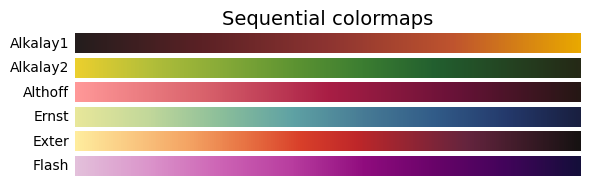
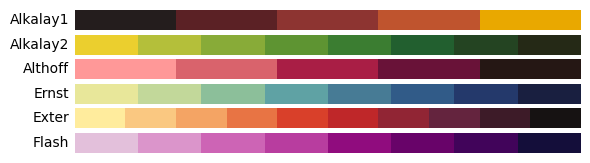
Update README with more examples

diff --git a/src/momacolors/colors.py b/src/momacolors/colors.py
@@ -1,3 +1,10 @@
+__all__ = [
+    "_hex_colors",
+    "_sequential",
+    "_diverging",
+    "_colorblind_friendly"
+]
+
 _hex_colors = {
     "Abbott"      : ["#950404", "#e04b28", "#c38961", "#9f5630", "#388f30", "#0f542f", "#007d82", "#004042"],
     "Alkalay1"    : ["#241d1d", "#5b2125", "#8d3431", "#bf542e", "#e9a800"],
@@ -37,43 +44,43 @@ _hex_colors = {
 }
 
 _sequential = {
-        "Alkalay1",
-        "Alkalay2",
-        "Althoff",
-        "Ernst",
-        "Exter",
-        "Flash",
+    "Alkalay1",
+    "Alkalay2",
+    "Althoff",
+    "Ernst",
+    "Exter",
+    "Flash",
 }
 
 _diverging = {
-        "Avedon", 
-        "Kippenberger",
-        "Picabia"
+    "Avedon", 
+    "Kippenberger",
+    "Picabia"
 }
 
 _colorblind_friendly = {
-        "Alkalay1",
-        "Alkalay2",
-        "Althoff",
-        "Andri",
-        "Connors",
-        "Doughton",
-        "Ernst",
-        "Exter",
-        "Flash",
-        "Fritsch",
-        "Kippenberger",
-        "Koons",
-        "Levine2",
-        "Ohchi",
-        "OKeeffe",
-        "Palermo",
-        "Picabia",
-        "Picasso",
-        "Rattner",
-        "Sidhu",
-        "Smith",
-        "ustwo",
-        "VanGogh",
-        "vonHeyl"
+    "Alkalay1",
+    "Alkalay2",
+    "Althoff",
+    "Andri",
+    "Connors",
+    "Doughton",
+    "Ernst",
+    "Exter",
+    "Flash",
+    "Fritsch",
+    "Kippenberger",
+    "Koons",
+    "Levine2",
+    "Ohchi",
+    "OKeeffe",
+    "Palermo",
+    "Picabia",
+    "Picasso",
+    "Rattner",
+    "Sidhu",
+    "Smith",
+    "ustwo",
+    "VanGogh",
+    "vonHeyl"
 }

diff --git a/src/momacolors/colormaps.py b/src/momacolors/colormaps.py
@@ -61,5 +61,7 @@ def show_all(n: Optional[int]=None, interpolate: bool=False, reversed: bool=Fals
     names = _compare_names(names, _sequential, sequential)
     names = _compare_names(names, _diverging, diverging)
     names = _compare_names(names, _colorblind_friendly, colorblind_friendly)
-    cmaps = [get_colormap(name, n=n, interpolate=interpolate, reversed=reversed) for name in names]
+    if len(names) == 0:
+        raise ValueError("No colormaps match the specified criteria.")
+    cmaps = [get_colormap(name, n=n, interpolate=interpolate, reversed=reversed) for name in sorted(names)]
     return plot_cmaps(cmaps)

diff --git a/README.md b/README.md
@@ -2,6 +2,14 @@
 
 Python implementation of [BlakeRMills/MoMAColors](https://github.com/BlakeRMills/MoMAColors).
 
+## Table of contents
+
+- [Installation](#installation)
+- [Usage](#usage)
+    - [Get colormaps](#get-colormaps)
+    - [Show colormaps](#show-colormaps)
+    - [Example](#example)
+
 ## Installation
 
 To install the latest development build,
@@ -12,27 +20,113 @@ pip install git+https://github.com/alexlyttle/pyMoMAColors.git
 
 ## Usage
 
-### Colormaps
+### Get colormaps
+
+To get a colormap, e.g. Abbott
 
 ```python
 import momacolors as moma
 
-moma.sequential.show_cmaps()
+moma.get_colormap("Abbott")
+```
+
+![Abbott colormap](images/abbott.png)
+
+This returns a `matplotlib.colors.Colormap` object which you can use in plotting (see [Example](#example)).
+
+You can customize the colormap using optional arguments. For example, return 20 colors,
+
+```python
+moma.get_colormap("Abbott", n=20)
+```
+
+![20 colors from Abbott colormap](images/abbott_20.png)
+
+See how the colors repeat. You can get 20 colors by interpolation instead,
+
+```python
+moma.get_colormap("Abbott", n=20, interpolate=True)
+```
+
+![20 colors from Abbott interpolated colormap](images/abbott_interpolate_20.png)
+
+You can reverse the colormap in the following ways
+
+```python
+moma.get_colormap("Abbott", reversed=True)
+moma.get_colormap("Abbott_r")
+moma.get_colormap("Abbott").reversed()
+```
+
+![20 colors from Abbott interpolated colormap](images/abbott_reversed.png)
+
+These all return the same object,
+
+```python
+>>> moma.get_colormap("Abbott", reversed=True) == \
+    moma.get_colormap("Abbott_r") == \
+    moma.get_colormap("Abbott").reversed()
+
+True
+```
+
+If you interpolate without specifying `n`, then `n = 256`. This is useful for *sequential* or *diverging* colormaps. For example,
+
+```python
+moma.get_colormap("Ernst", interpolate=True)
+```
+
+![Ernst interpolated colormap](images/ernst_interpolate.png)
+
+### Show colormaps
+
+```python
+import momacolors as moma
+
+moma.show_all()
+```
+
+![All colormaps](images/colormaps.png)
+
+Show only sequential colormaps,
+
+```python
+moma.show_all(sequential=True)
 ```
 
 ![Sequential colormaps](images/sequential.png)
 
-```python
-moma.diverging.show_cmaps()
-```
-
-![Diverging colormaps](images/diverging.png)
+Show sequential colormaps and interpolate (default is `n = 256` colors),
 
 ```python
-moma.qualitative.show_cmaps()
+moma.show_all(interpolate=True, sequential=True)
 ```
 
-![Qualitative colormaps](images/qualitative.png)
+![Sequential interpolated colormaps](images/sequential_interpolate.png)
+
+Show diverging colormaps,
+
+```python
+moma.show_all(interpolate=True, sequential=True)
+```
+
+![Diverging interpolated colormaps](images/diverging_interpolate.png)
+
+Show 6 colors from all colorblind-friendly colormaps (for maps with less than 6 colors, the colors repeat),
+
+```python
+moma.show_all(n=6, colorblind_friendly=True)
+```
+
+![6 colors from colorblind-friendly colormaps](images/colorblind_6.png)
+
+Show 6 colors from all colorblind-friendly colormaps where the colors are determined by interpolating the original colormap,
+
+```python
+moma.show_all(n=6, interpolate=True, colorblind_friendly=True)
+```
+
+![6 colors from colorblind-friendly colormaps](images/colorblind_interpolate_6.png)
 
 ### Example
 
@@ -45,7 +139,7 @@ y = np.sin(x)
 c = np.sin(x)**2
 
 # Choose appropriate colormap
-cmap = moma.sequential.Ernst
+cmap = moma.get_colormap("Ernst", interpolate=True)
 
 fig, ax = plt.subplots()
 s = ax.scatter(x, y, c=c, cmap=cmap)
